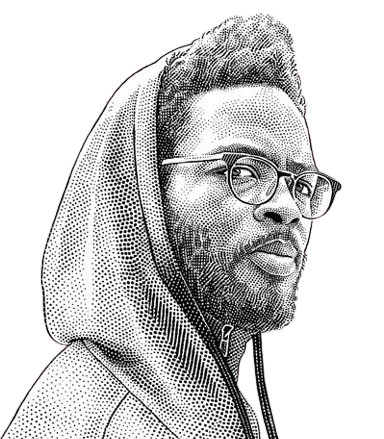
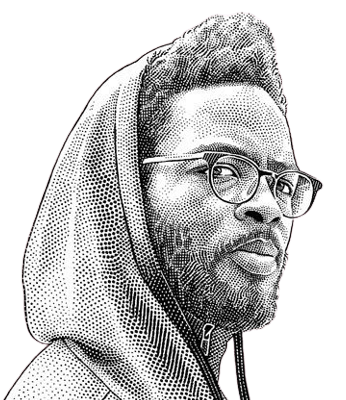
Completing contact section

diff --git a/src/components/Hero.jsx b/src/components/Hero.jsx
@@ -1,28 +1,31 @@
 import React from 'react'
 import styles from '../style';
-import portrait from "../assets/portrait.png";
+import portrait from "../assets/myimage-2.jpg";
 
 
 const Hero = () => {
   return (
     <section
       id="home"
-      className={`flex md:flex-row xxs:gap-0 gap-10 flex-col ${styles.paddingY}`}
+      className={`flex md:flex-row xxs:gap-0 lg:gap-20 flex-col ${styles.paddingY}`}
     >
       <div
         className={`flex-2 ${styles.flexStart} flex-col xl:px-0 sm:px-16 px-6`}
       >
         <div className="flex flex-row justify-between items-center w-full">
-          <h1 className="flex-1 mt-5 font-poppins font-semibold ss:text-[72px] text-[42px] text-white ss:leading-[100.8px] leading-[55px]">
+          <h1 className="flex-1 mt-5 font-dmdisplay font-semibold ss:text-[72px] text-[42px] text-white ss:leading-[100.8px] leading-[55px]">
             Building <br className="sm:block hidden" />{" "}
             <span className="text-gradient">Digital Products</span>,{" "}
           </h1>
         </div>
-        <h1 className="font-poppins font-semibold ss:text-[68px] text-[42px] text-white ss:leading-[100.8px] leading-[55px] w-full">
+        <h1 className="font-semibold font-dmdisplay ss:text-[68px] text-[42px] text-white ss:leading-[100.8px] leading-[55px] w-full">
           Coding and More...
         </h1>
-        <p className={`${styles.paragraph} max-w-[470px] xxs:text-xl lg:text-2xl mt-5`}>
-          I am <span className="text-gradient font-bold">Andrea S. Pensieri</span>, a
+        <p
+          className={`${styles.paragraph} max-w-[470px] xxs:text-xl lg:text-2xl mt-5`}
+        >
+          I am{" "}
+          <span className="text-gradient font-bold">Andrea S. Pensieri</span>, a
           Front End Developer with two years of experience as a freelancer.
         </p>
       </div>
@@ -32,7 +35,7 @@ const Hero = () => {
         <img
           src={portrait}
           alt="billing"
-          className="w-[100%] h-[100%] xxs:mb-30 relative z-[5]"
+          className="w-[100%] h-[100%] xxs:mx-4 rounded-xl lg:px-0 xxs:px-6 xxs:mb-30 relative z-[5]"
         />
         <div className="absolute z-[0] w-[40%] h-[35%] top-0 pink__gradient" />
         <div className="absolute z-[1] w-[80%] h-[80%] rounded-full white__gradient bottom-40" />

diff --git a/src/components/ContactMe.jsx b/src/components/ContactMe.jsx
@@ -1,9 +1,34 @@
 import React from 'react'
+import { BsFacebook, BsLinkedin, BsGithub, BsInstagram } from "react-icons/bs";
 
 export default function ContactMe() {
   return (
-    <section id="contact">
-
+    <section className="text-center mb-20" id="contact">
+      <h1 className="text-gradient font-dmdisplay font-semibold mt-20 ss:text-[52px] text-[32px]">
+        Let's Connect
+      </h1>
+      <p className="text-dimWhite xxs:text-xl mb-3 lg:text-2xl">
+        Feel free to reach out for collaborations or just say a friendly hello
+      </p>
+      <p className="text-gradient xxs:text-xl lg:text-2xl">
+        <a href="mailto:andreadevpensieri@gmail.com">
+          andreadevpensieri@gmail.com
+        </a>
+      </p>
+      <div className="flex flex-row items-center mt-10 justify-center">
+        <a href="https://www.facebook.com/andrew.onais.9">
+          <BsFacebook className="text-white" size={30} />
+        </a>
+        <a href="https://www.linkedin.com/in/andrea-siano-023a46243/">
+          <BsLinkedin className="text-white ml-10" size={30} />
+        </a>
+        <a href="https://github.com/andreasiano?tab=repositories">
+          <BsGithub className="text-white ml-10" size={30} />
+        </a>
+        <a href="https://www.instagram.com/">
+          <BsInstagram className="text-white ml-10" size={30} />
+        </a>
+      </div>
     </section>
   );
 }

diff --git a/src/App.js b/src/App.js
@@ -27,11 +27,11 @@ const App = () => (
         </div>
       </div>
     </div>
-      <div className={`bg-primary ${styles.flexStart}`}>
-        <div className={`${styles.boxWidth}`}>
-          <ContactMe/>
-        </div>
+    <div className={`${styles.paddingX} ${styles.flexCenter}`}>
+      <div className={`${styles.boxWidth}`}>
+        <ContactMe />
       </div>
+    </div>
   </div>
 );
 

diff --git a/src/index.css b/src/index.css
@@ -30,6 +30,7 @@ html,
   background: -webkit-linear-gradient(#def9fa, #def9fa, #bef3f5, #7de7eb, #5ce1e6, #33bbcf);
   background-clip: text;
   -webkit-text-fill-color: transparent;
+  text-decoration: underline;
 }
 
 .bg-blue-gradient {
